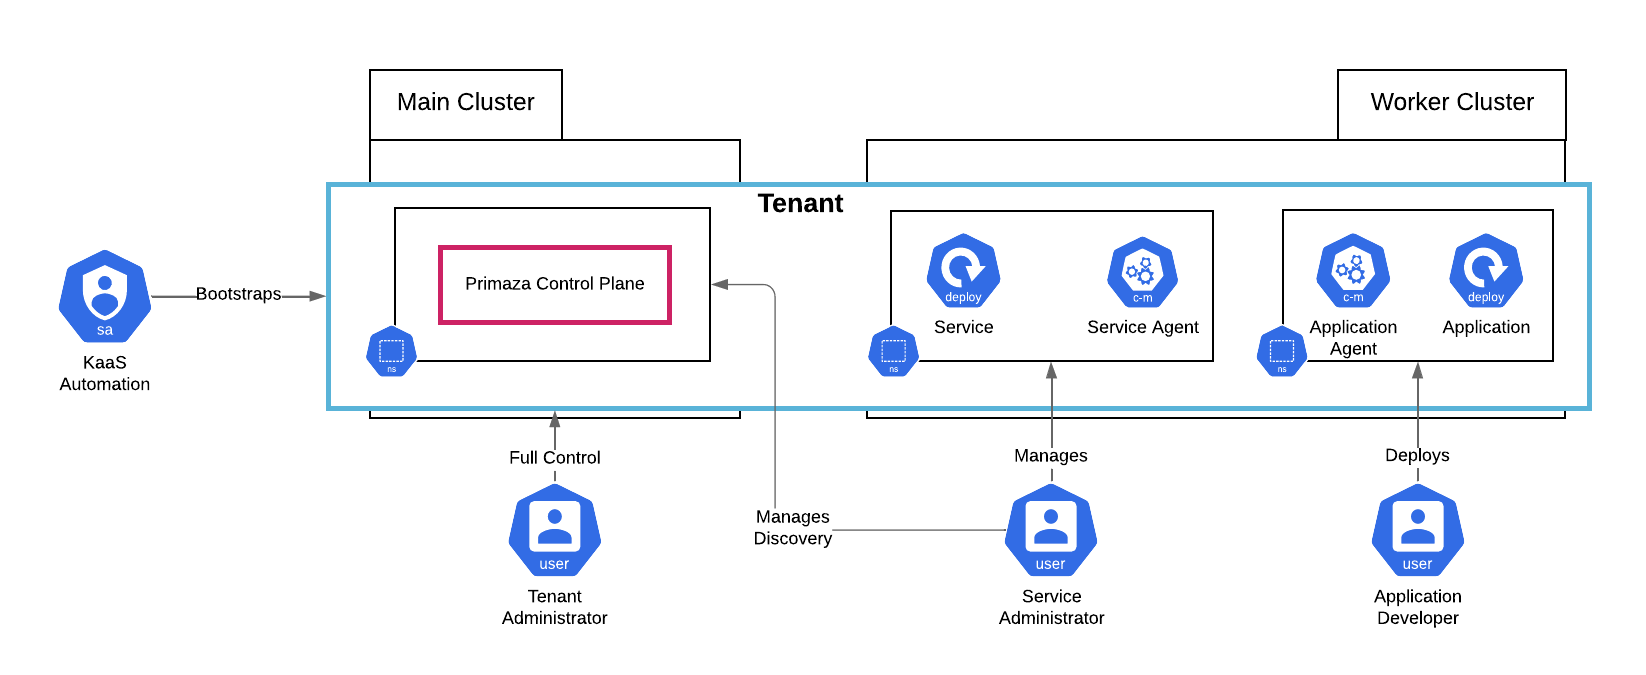
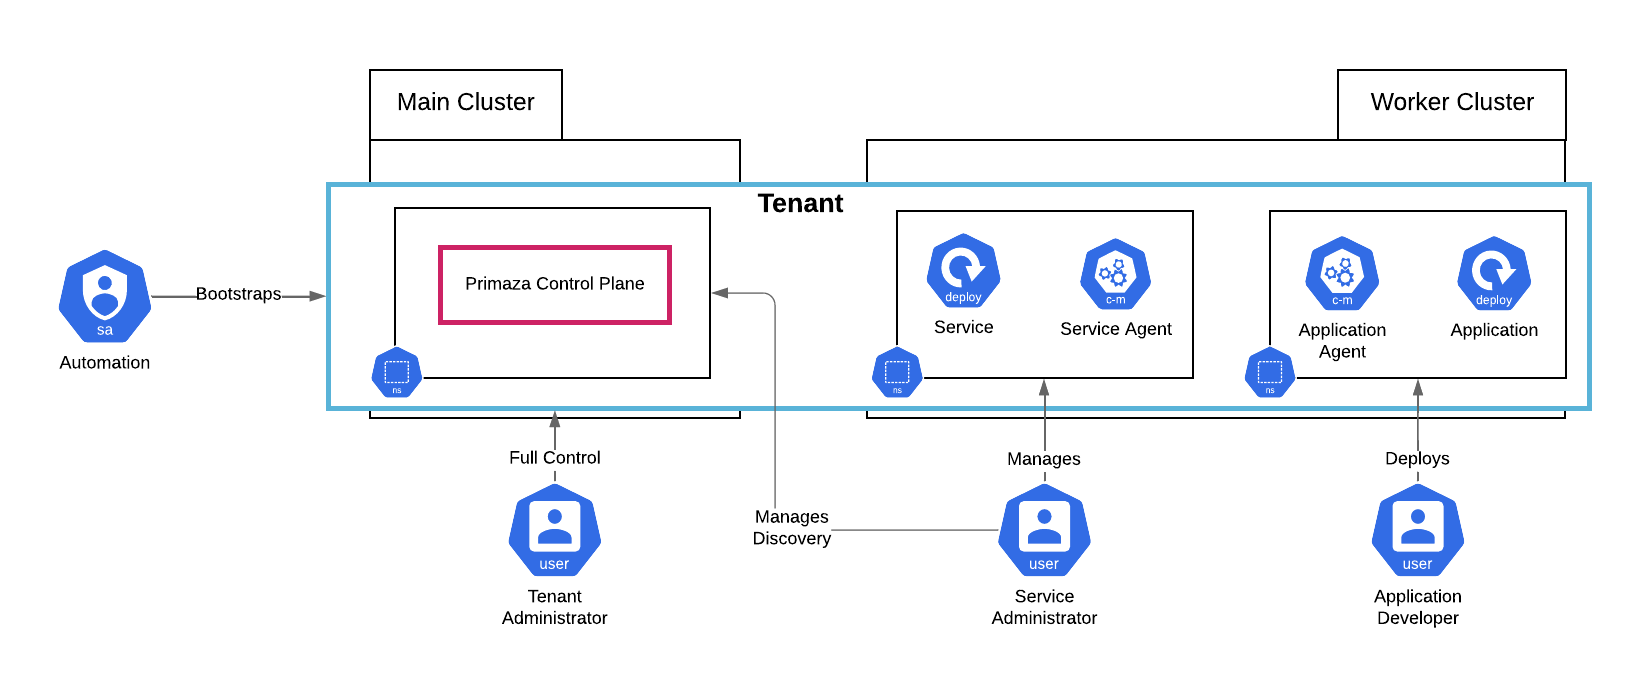
Update docs

diff --git a/docs/src/kaas/intro.md b/docs/src/kaas/intro.md
@@ -1,23 +1,27 @@
-# Intro
+# Case Study
 
-**TimberFire Technologies** is a Platform as a Service provider.
+**TimberFire Technologies** is a Software and Platform as a Service provider.
 They will like to incorporate Kubernetes as a Service (KaaS) solutions for their customers.
 For this purpose, they have brought in Red Hat to help determine the technology stack.
 They have worked with Red Hat before and have been exposed to OpenShift.
 However, this time they have new requirements and are not sure OpenStack by itself will help them.
-After interviewing their customers, TimberFire Technologies have compiled their top requirements:
+After interviewing their customers, TimberFire Technologies have compiled their top requirements.
 
-Their customers will like to be able to use matured cloud services with established SLAs from reputable cloud providers.
+* Their customers will like to be able to use matured cloud services with established SLAs from reputable cloud providers.
 The top services required by their customers are SQL and NoSQL databases, Object Stores, and Message Brokers.
-Their customer will like to be able to run tests in multiple environments before deploying to production.
+
+* Their customer will like to be able to run tests in multiple environments before deploying to production.
 These environments will be short lived and sometimes even ephemeral.
-It is important that each customer's test environment can be provisioned and configured quickly (less than a minute).
-They will like to be efficient with their infrastructure and are therefore looking to set up their platform to be multi-tenant.
-They will like to allow their customers to provision their services on-demand or have them available in a service pool ready to be consumed by their application.
+It is important that each customer's test environment can be provisioned and configured quickly.
 
-After analysing TimberFire’s requirements, Red Hat has determine that a Pipeline using OpenShift will be a good baseline for TimberFire KaaS offering.
-In addition to OpenShift, Red Hat has determine that given their cloud service requirements, a new product, currently under development, called *Primaza* is a good candidate to be evaluated by TimberFire.
+* They will like to be efficient with their infrastructure and are therefore looking to set up their platform to be multi-tenant.
 
-TimberFire will like to work with Red Hat and one of their customers (*Sapiens Inc.*) to build a PoC.
+* They will like to allow their customers to provision their services on-demand or have them available in a service pool ready to be consumed by their application.
+
+After analysing TimberFire’s requirements, Red Hat has determined that a Pipeline using OpenShift will be a good baseline for TimberFire KaaS offering.
+In addition to OpenShift, Red Hat has determined that given their cloud service requirements, a new product, currently under development, called **Primaza** is a good candidate to be evaluated by TimberFire.
+
+TimberFire will like to work on a PoC with Red Hat and one of their customers: **Sapiens Inc.**
+<br/>
 Sapiens is building an online retail application that specifically requires a NoSQL database, a PostgreSQL Database and a Queue.
 Before the PoC work starts Red Hat will like to show TimberFire and Sapiens Engineering Leadership a Demo of their Primaza v0.1 release to gauge whether there are any missing requirements that can be addressed in parallel while the PoC is being run.

diff --git a/docs/src/kaas/topology-and-personas.md b/docs/src/kaas/topology-and-personas.md
@@ -1,8 +1,9 @@
 # Topology and Personas
 
-KaaS creates a Tenant for each isolated environment a customer asks for.
-Two Tenants would not share information among them.
-They usually configure a Tenant to be spread across two different clusters, called for simplicity `main` and `worker`.
+TimberFire creates a Primaza Tenant for each isolated environment a customer asks for.
+Two Primaza Tenants would not share information among them.
+<br/>
+TimberFire usually configure a Tenant to be spread across two different clusters, called for simplicity `main` and `worker`.
 
 Practically, they provide a default configuration composed by three namespaces:
 

diff --git a/docs/src/kaas/claiming/outer-loop.md b/docs/src/kaas/claiming/outer-loop.md
@@ -1,10 +1,14 @@
-# Application Developer: Publish the application (Outer Loop)
+# Application Developer: Publish the application
 
 The *Sapiens* Application Developer is responsible for the whole `demo-app` application.
 
 ![image](../../imgs/demo-app-architecture.png)
 
 
-They use the ArgoCD instance KaaS is providing by default in the Application Namespace.
+They use the ArgoCD instance TimberFire is providing by default in the Application Namespace.
+
+<details><summary>Demo Output</summary><p>
 
 ![image](../../imgs/argocd-demo-app.png)
+
+</p></details>

diff --git a/docs/src/kaas/services/manual-registration.md b/docs/src/kaas/services/manual-registration.md
@@ -1,6 +1,6 @@
 # Service Administrator: Manual registration
 
-The Service Administrator knows that he had already deployed an unused RDS Postgres Database.
+The Service Administrator knows that they had already deployed but never used an RDS Postgres Database.
 They thinks the Application Developer may use this unused database.
 
 As they got all the information needed by the Application Developer to connect to the database, they manually creates a RegisteredService for the RDS Database.

diff --git a/docs/src/kaas/tenant-setup.md b/docs/src/kaas/tenant-setup.md
@@ -5,6 +5,8 @@ When *Sapiens* is successfully on-boarded, a pipeline is run for creating and se
 The Automation makes use of [primazactl](https://github.com/primaza/primazactl) for creating the new Tenant.
 `primazactl` is a command line tool, developed for making the Tenant management as easy as possible.
 
+![image](../imgs/single-tenant-view.png)
+
 <details><summary>Demo Output</summary><p>
 
 <pre><code><span style="color: #8fa77f">❯ ./bin/main --env-setup</span>
